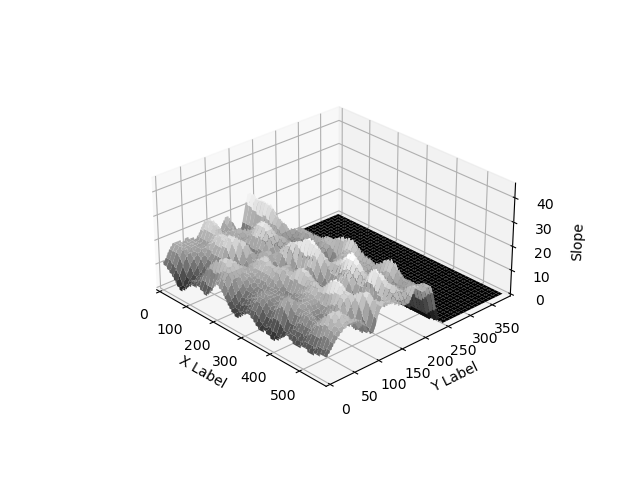
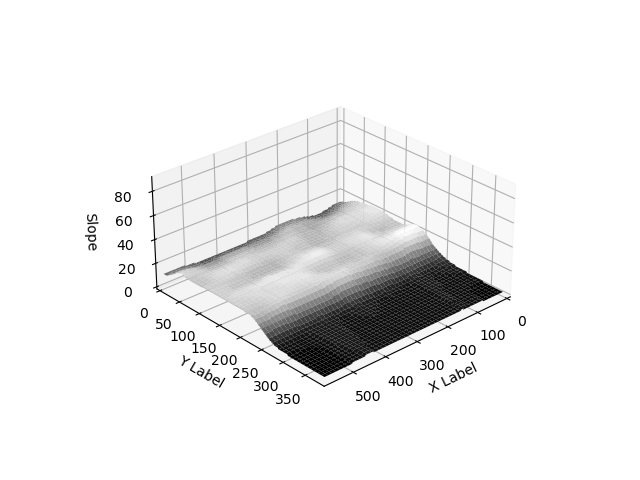
Updated figure

diff --git a/slope_test.py b/slope_test.py
@@ -106,7 +106,7 @@ def correct_image(blur, slope_range):
 def estimate_slope(z):
     ## Padding
     scale = 1.0
-    k = 15
+    k = 45
     erosion_k = k//2
 
     kernel = np.ones((k,k))/(k*k)
@@ -130,7 +130,7 @@ def estimate_slope(z):
 def main():
     
     vor_image_gray = cv2.imread('images_10/voro_lidar_img_2023_09_16_06_41_42_01800.jpg', 0).astype(np.uint8)   # 10 deg
-    # slope_range = (50, 230)   # 10 deg
+    slope_range = (50, 230)   # 10 deg
     # vor_image_gray = cv2.imread('images_20/voro_lidar_img_2023_09_16_06_54_29_02000.jpg', 0).astype(np.uint8)   # 20 deg
     # slope_range = (0, 200)   # 20 deg
     # vor_image_gray = cv2.imread('images_30/voro_lidar_img_2023_09_16_07_04_35_02300.jpg', 0).astype(np.uint8)   # 30 deg
@@ -146,8 +146,12 @@ def main():
     
     blur = cv2.GaussianBlur(vor_image_gray, (45,45), 0)
     z = correct_image(blur, slope_range)
-    # z = estimate_slope(z)
-    z = cv2.GaussianBlur(z, (45,45),0)
+    z = estimate_slope(z)
+    
+    kernel_size = 45
+    kernel = np.ones((kernel_size, kernel_size), np.float32) / (kernel_size * kernel_size)
+    z = cv2.filter2D(z, -1, kernel)
+    # z = cv2.GaussianBlur(z, (45,45),0)
     z = cv2.resize(z, dsize=(576,384), interpolation=cv2.INTER_AREA)
 
 
@@ -170,7 +174,8 @@ def main():
 
     ax.set_xlim(0, img_w)
     ax.set_ylim(0, img_h)
-    ax.set_zlim(0, np.max(z))
+    ax.set_zlim(0, 90)
+    # ax.set_zlim(0, np.max(z))
     # ax.set_zlim(0, 150)
 
     plt.show()
